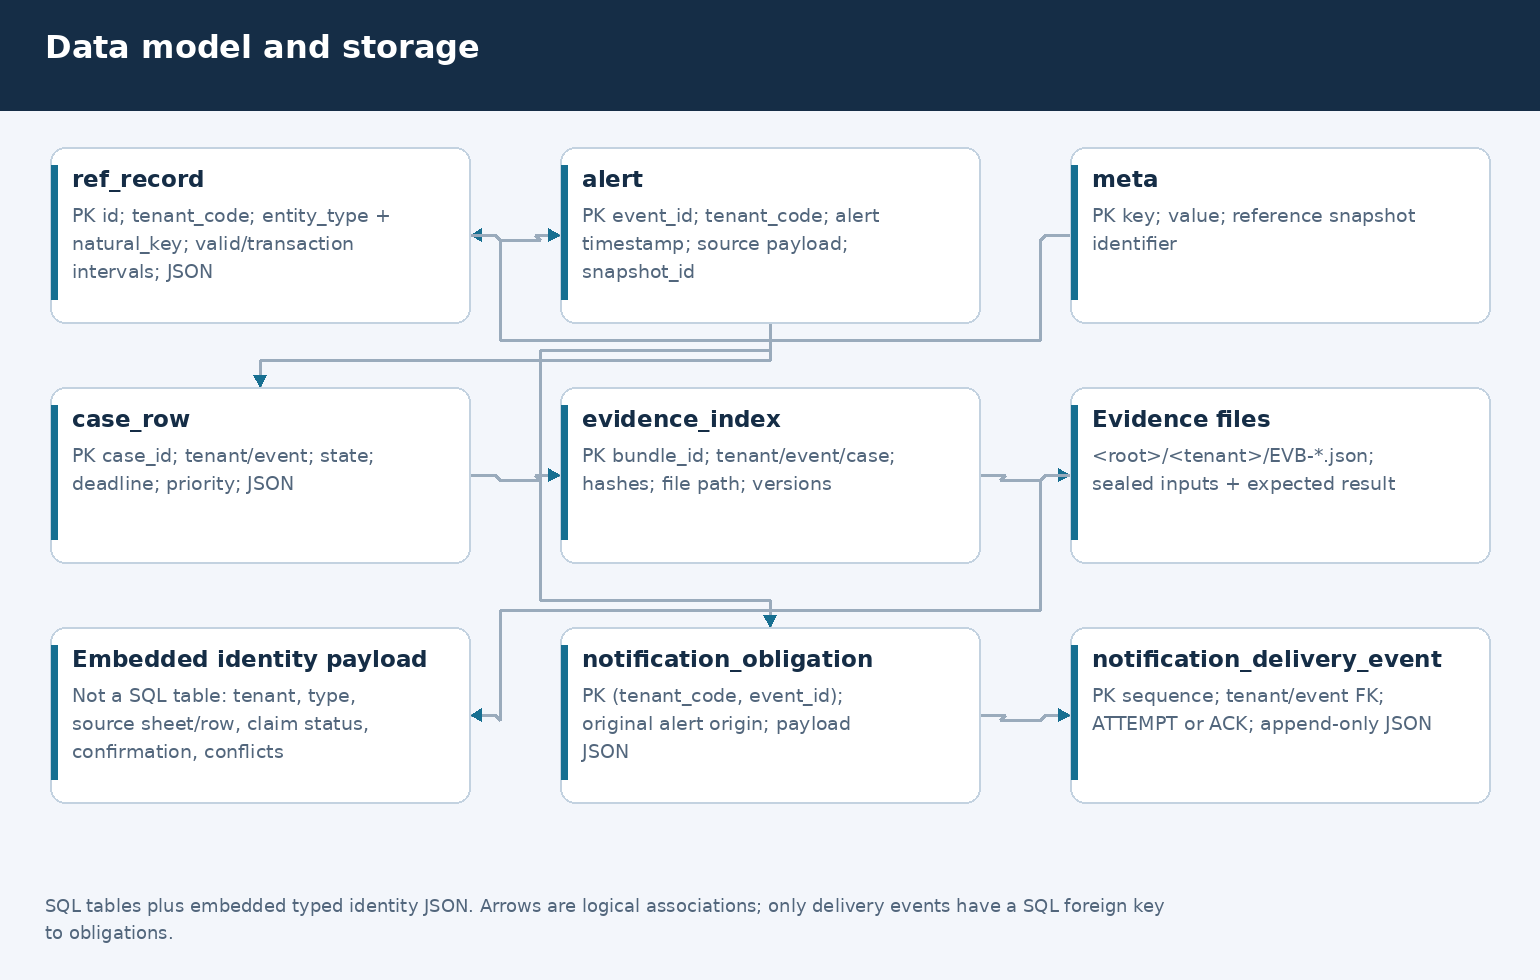
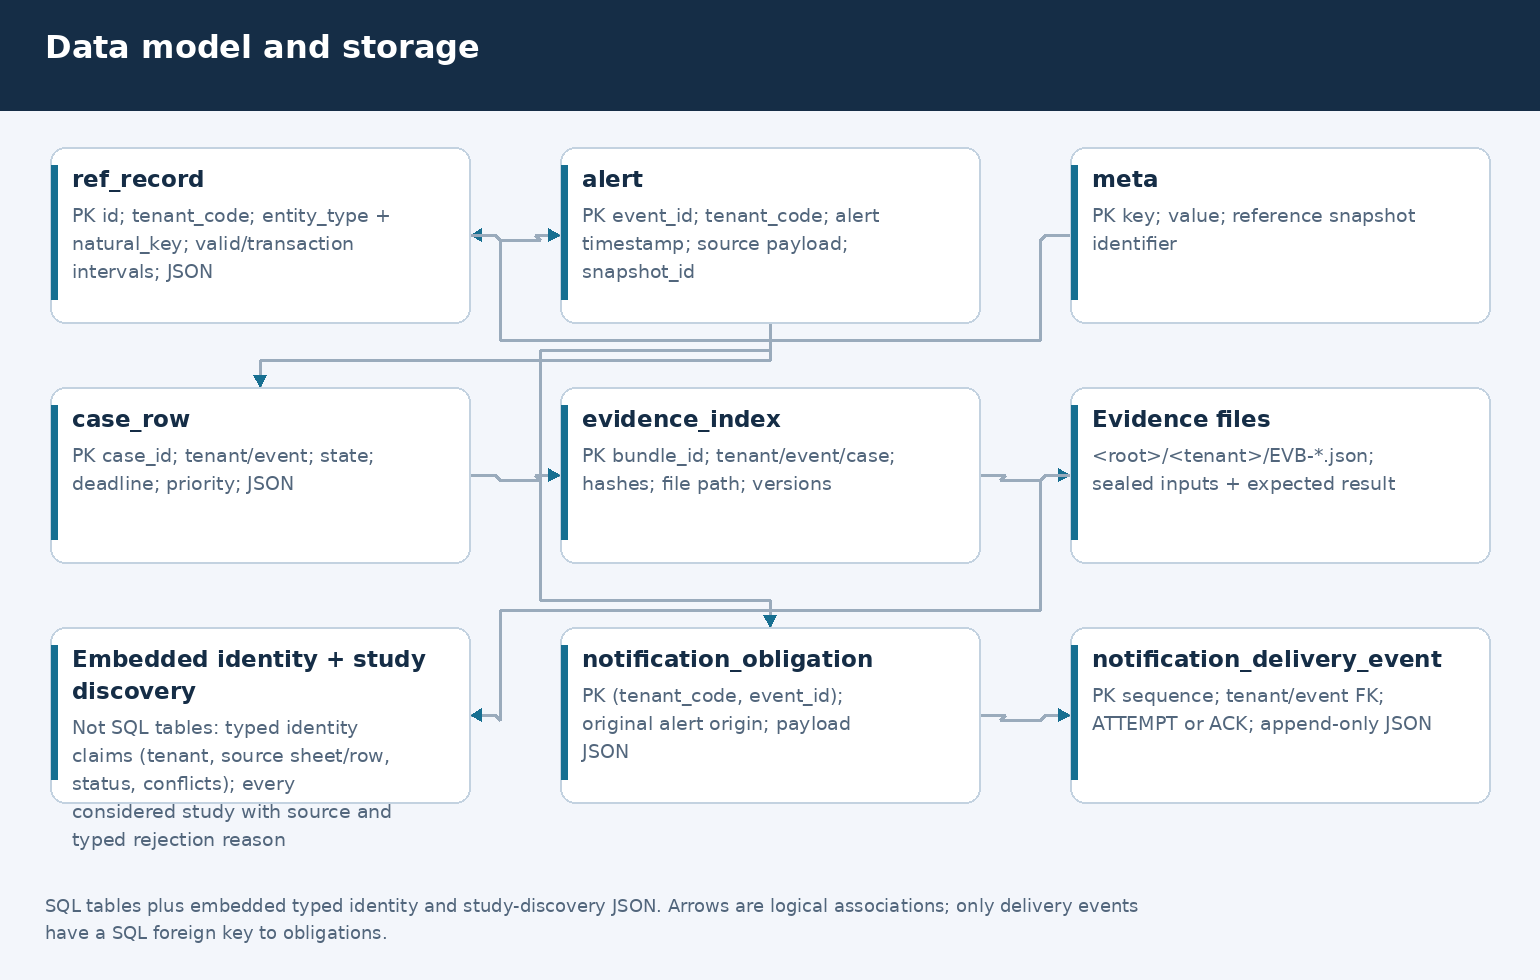
docs: refresh README and guides to final production state

diff --git a/README.md b/README.md
@@ -25,7 +25,7 @@ retrieve complete SOP/study documents, authenticate human signers, enforce all
 production tenant boundaries, or send/file regulator notifications. No live model
 or nine-system production integration runs in the default path.
 
-This branch is unmerged. Do not deploy it as a production decision system.
+This is the final case-study state on `production` and `main`. It is a prototype: do not deploy it as a production decision system.
 
 ## Quickstart
 
@@ -74,11 +74,25 @@ Re-executed on the unchanged 420-alert workbook; not production accuracy or clin
 | Notification PENDING (conservative historical Y) | 28 |
 | Notification UNKNOWN | 392 |
 
-93 formerly historical candidates now require identity QA. Historical classifications
-remain reference data. Historical candidates still need human review. PENDING is not verified legal
+Historical classifications remain reference data. Historical candidates still need human review. PENDING is not verified legal
 reportability; UNKNOWN is not “not reportable”. All sample legal deadlines remain
 null/UNKNOWN without controlled applicability/calendar evidence.
 [Executed checks, unchanged outcomes and historical reports](docs/06-testing-and-validation.md).
+
+## What was fixed
+
+Each fix was made test-first (failing regression, then fix, then full suite). Each report
+lists the failing-then-passing tests, commands run and every changed event.
+
+| Fix | What it does now | Report |
+|---|---|---|
+| Missing temperatures, carrier AFX-DE, cumulative exposure, study/SOP authority | Missing data, carrier ambiguity and unknown cumulative history route to QA; release needs study/SOP authority | [correctness review](docs/validation/correctness-review/report.md) |
+| Storage limits | Explicit lower/upper bounds with inclusive/strict edges; missing, unparseable and one-sided limits are kept separate | [storage limits](docs/validation/storage-limits-review/report.md) |
+| Historical candidates | Historical text alone never authorises AUTO_CLOSE; it becomes `HISTORICAL_CLOSURE_CANDIDATE_UNVERIFIED` (PENDING_EVIDENCE) | [historical candidates](docs/validation/historical-candidates-review/report.md) |
+| Notification obligations | Separate persisted lane; unknown reportability stays UNKNOWN; tenant-scoped 401/403 access | [notifications](docs/validation/notification-obligations-review/report.md) |
+| Evidence-chain re-seal | Files are reconciled against the SQLite index; basis, replay and sign return 409 on mismatch | [evidence chain](docs/validation/evidence-chain-review/report.md) |
+| Typed tenant-scoped identity evidence | Negative, conflicting, cross-tenant or unconfirmed claims cannot establish product identity; unresolved identity goes to QA and blocks release signing | [identity evidence](docs/validation/identity-evidence-review/report.md) |
+| Study discovery with rejection reasons | Every considered study is recorded with its source and a typed rejection reason; nothing is guessed | [study discovery](docs/validation/study-discovery-review/report.md) |
 
 ## Read the design
 
@@ -90,20 +104,25 @@ null/UNKNOWN without controlled applicability/calendar evidence.
 6. [Testing and validation](docs/06-testing-and-validation.md)
 7. [Limitations and roadmap](docs/07-limitations-and-roadmap.md)
 
+## Not done yet (roadmap)
+
+5. Site/SOP/annexure resolution tasks for missing or overlapping authority.
+6. Source-dependency index with re-review/reopen tasks when sources change.
+7. Tenant-partitioned precedent import, using only decisions known before the alert.
+8. Curation backlog and evidence-completeness-conditioned metrics.
+
 ## Limitations to read first
 
-Typed identity evidence now blocks negative/conflicting alias merges. The supplied
-alias observations lack tenant ownership, so they remain candidates, not release
-identity. [Identity validation and all changed cases](docs/validation/identity-evidence-review/report.md).
-Study discovery, site-annexure resolution, verified batch history and precedent import
-are unfinished. Numeric rules and signing paths are not clinically validated.
-Most API routes lack production authentication. Evidence files/SQLite are not a
-proven WORM archive or highly available deployment. File/index mismatches now
-block evidence retrieval, signing and replay, but SQLite plus local files is not
-an independent anchor: someone able to rewrite both can still forge evidence.
-[Integrity regression results](docs/validation/evidence-chain-review/report.md).
-Delivery retry/receipt records
-are unverified claims; no worker, legal filing adapter or pager is supplied.
+- Supplied aliases have no tenant ownership, so they stay candidates, not release identity.
+- No study is selected for any sample case: approvals, effective dates and full reports are absent.
+- SOP bodies/site annexures and verified batch history are missing.
+- Numeric rules and signing paths are not clinically validated; signers are not authenticated.
+- Most API routes lack production tenant authentication (only the notification lane is scoped).
+- SQLite plus local files is not an independent integrity anchor: someone able to rewrite
+  both can still forge evidence. It is not a WORM archive or HA deployment.
+- Delivery retry/receipt records are unverified claims; no worker, filing adapter or pager.
 
-[Detailed limitations and inspection concerns](docs/07-limitations-and-roadmap.md) ·
-[Documentation corrections and source SHA-256 check](docs/validation/documentation-review/report.md).
+[Detailed limitations](docs/07-limitations-and-roadmap.md) ·
+[Validation archive](docs/validation/README.md).
+
+Effort spent: TODO (to be supplied by the author).

diff --git a/docs/06-testing-and-validation.md b/docs/06-testing-and-validation.md
@@ -2,36 +2,39 @@
 
 These specific defects were addressed; overall safety and production readiness remain unvalidated.
 
-## Current typed identity evidence verification
+## Current verification (final state, `production`)
 
-Item 3 starts from `cf9b590`. Typed source/tenant/contract claims now block negative,
-conflicting and unowned product aliases; unresolved products route to QA. This
-changes identity routing, not clinical thresholds or source data.
-[Failing/passing tests, commands and all changed events](validation/identity-evidence-review/report.md).
+Executed on a fresh venv against the unchanged 420-alert workbook.
 
 | Check | Observed result |
 |---|---|
-| Test-first regressions | 27 initial failures, then 1 release gate, 4 units/history, 1 owned-conflict failure before each fix; 3 confirmation-status/blank-name failures; all 36 pass |
-| Full pytest suite | 271 passed; one existing test-client dependency deprecation warning |
+| Full pytest suite | 325 passed |
 | Ruff lint / format | Passing |
-| Fresh temporary run-all | 420 records |
+| Fresh run-all | 420 records |
 | Recommendations | 0 AUTO_CLOSE / 383 QA / 37 unverified historical candidates; note/quarantine/destroy zero |
-| Before / changed | 0 / 290 / 130; 93 historical candidates → identity QA; no closure/release increase |
 | Verified closure counter | 0 |
-| Independent obligations | Unchanged 28 conservative PENDING / 392 UNKNOWN |
+| Independent obligations | 28 conservative PENDING / 392 UNKNOWN; all 420 legal deadlines UNKNOWN |
 | Full-result replay | 420/420 identical |
-| Untouched tenant chains | All 8 OK; direct CLI verify exit 0 |
-| Former alias-chain cases | All 81 unresolved (80 conflict, 1 candidate), all QA |
-| API / UI / sealed evidence | Typed assessments and provenance; actual API and Node render retained |
+| Tenant evidence chains | All 8 verify |
+| Docs link check | Passing |
 
-The [evidence-chain review](validation/evidence-chain-review/report.md) retains its
-235-test baseline and re-seal regressions. The [documentation review](validation/documentation-review/report.md)
-retains the earlier 208-test run, source ZIP checks and original integrity probe.
-These are versioned artifacts, not current outcome targets. Source data is unchanged.
+## Per-fix reports (history, test-first)
+
+Each report states its own baseline; counts there describe that version, not current behaviour.
+
+| Fix | Report |
+|---|---|
+| Missing temps, carrier, cumulative, study/SOP authority | [correctness review](validation/correctness-review/report.md) |
+| Storage limits | [storage limits](validation/storage-limits-review/report.md) |
+| Historical candidates | [historical candidates](validation/historical-candidates-review/report.md) |
+| Notification obligations | [notifications](validation/notification-obligations-review/report.md) |
+| Evidence-chain re-seal | [evidence chain](validation/evidence-chain-review/report.md) |
+| Typed identity evidence (93 candidates → identity QA) | [identity evidence](validation/identity-evidence-review/report.md) |
+| Study discovery with typed rejection reasons | [study discovery](validation/study-discovery-review/report.md) |
+| Documentation/visuals and integrity probe | [documentation review](validation/documentation-review/report.md) |
 
 These are regression/sample observations, not clinical truth, production rates,
 validated legal applicability, throughput benchmarks or long-term durability proof.
-All 420 sample legal deadlines remain null/UNKNOWN without approved policy inputs.
 
 ## Reproduce the main checks
 
@@ -67,9 +70,3 @@ residency compliance or seven-year source reconstruction.
 passing evidence from earlier changes. Old outcome counts and limitations are
 labelled by version there; they are not current acceptance targets. Historical
 finals/assistant drafts are references, not clinical gold labels or count targets.
-
-## Item 4: study discovery
-
-See the [isolated study review](validation/study-discovery-review/report.md) for
-failing-then-passing tests, complete 420-event/replay comparison, eight tenant
-chain checks and candidate API/UI evidence. No source workbook data was edited.

diff --git a/docs/07-limitations-and-roadmap.md b/docs/07-limitations-and-roadmap.md
@@ -52,27 +52,23 @@ person's authority or establish clinical release eligibility.
 
 ## Roadmap: proposed, not implemented
 
-1. Populate and authenticate the implemented typed identity claims through qualified
-   tenant owners. Supplied aliases remain unowned/unverified candidates. Source QA
-   names/dates are claims, not authenticated signatures; current master rows are not
-   a universal no-hindsight archive. Exact tenant GTIN/SKU assertions do not establish
-   source truth. Incompatible explicit descriptors require review, not invented unit
-   conversion or clinical equivalence. Facility ownership/site linkage remains unestablished.
-2. Qualify the implemented [study discovery catalogue](validation/study-discovery-review/report.md)
-   with tenant owners, controlled full reports and verified alternate mappings.
-   Discovery remains separate from clinical release authority; source approvals
-   and effective/knowledge/supersession metadata are not manufactured.
-3. Obtain controlled site/date SOP bodies and annexures; create open resolution
-   tasks for missing/overlapping authority. Blank transcription must never clear a blocker.
-4. Establish verified batch/once-only history and source dependencies; create
-   human re-review/reopen tasks for changed sources.
-5. Import precedents/reasoning only within the tenant and only when the decision
-   existed before the alert; avoid hindsight and incomplete-evidence accuracy claims.
-6. Build curation/completeness metrics and qualified retrospective review, not a
-   target number of automatic closures.
-7. Deploy authenticated/dual-authority workflows, authorised policy/calendar
-   registry, independent notification workers/verified receipts/paging, retention,
-   concurrency/restore tests and tenant/residency controls before production review.
+Items 1–4 (correctness fixes, storage limits, historical candidates, notifications,
+evidence chain, typed identity, study discovery) are done; see [validation](06-testing-and-validation.md).
+Remaining items:
 
-Prior proposed items are not delivered by documenting them. The branch remains
-unmerged for owner review. No source data, clinical rule or verification was invented.
+5. **Site/SOP/annexure resolution tasks.** Obtain controlled site/date SOP bodies and
+   annexures; open resolution tasks for missing/overlapping authority. Blank
+   transcription must never clear a blocker.
+6. **Dependency index and re-review tasks.** Track which cases depend on which sources;
+   create human re-review/reopen tasks when a source changes. Needs verified batch history.
+7. **Tenant-partitioned precedent import, no hindsight.** Import precedents only within
+   the tenant and only when the decision existed before the alert.
+8. **Curation backlog and conditional metrics.** Metrics conditioned on evidence
+   completeness, not a target number of automatic closures.
+
+Also needed before any production review: owner-authenticated identity claims and
+study catalogue, authenticated/dual-authority signing, an authorised policy/calendar
+registry, independent notification workers/verified receipts/paging, retention,
+concurrency/restore tests and tenant/residency controls.
+
+No source data, clinical rule or verification was invented.

diff --git a/docs/validation/README.md b/docs/validation/README.md
@@ -2,12 +2,10 @@
 
 These specific defects were addressed; overall safety and production readiness remain unvalidated.
 
-## Current typed identity evidence
+## Current state
 
-[Identity review](identity-evidence-review/report.md): 36 test-first regressions,
-271 full tests passing; 0 AUTO_CLOSE / 383 QA / 37 historical candidates; unchanged
-28/392 notification split. All 81 former alias-chain cases remain unresolved;
-all 93 changed outcomes are listed. [Testing guide](../06-testing-and-validation.md).
+Final `production`: 325 tests passing; 0 AUTO_CLOSE / 383 QA / 37 historical
+candidates; 28 PENDING / 392 UNKNOWN notifications. [Testing guide](../06-testing-and-validation.md).
 
 ## Retained historical reports
 
@@ -15,6 +13,8 @@ These reports are versioned experiment records, not a single current specificati
 Read the stated baseline/version before quoting any count or implementation claim.
 Raw failures, outputs and source observations are preserved, not silently rewritten.
 
+- [Study discovery, item 4](study-discovery-review/report.md)
+- [Typed identity evidence, item 3](identity-evidence-review/report.md)
 - [Evidence-chain integrity, baseline 0bb2337](evidence-chain-review/report.md)
 - [Documentation/visuals, baseline 62c498f](documentation-review/report.md)
 - [Notification obligations, 0.5.1](notification-obligations-review/report.md)

diff --git a/docs/03-lld.md b/docs/03-lld.md
@@ -199,7 +199,7 @@ flowchart TB
     Files["Evidence files<br/><root>/<tenant>/EVB-*.json; sealed inputs + expected result"]
     Obligation["notification_obligation<br/>PK (tenant_code, event_id); original alert origin; payload JSON"]
     Delivery["notification_delivery_event<br/>PK sequence; tenant/event FK; ATTEMPT or ACK; append-only JSON"]
-    Identity["Embedded identity payload<br/>Not a SQL table: tenant, type, source sheet/row, claim status, confirmation, conflicts"]
+    Identity["Embedded identity + study discovery<br/>Not SQL tables: typed identity claims (tenant, source sheet/row, status, conflicts); every considered study with source and typed rejection reason"]
     Meta --> Ref
     Ref --> Alert
     Alert --> Case
